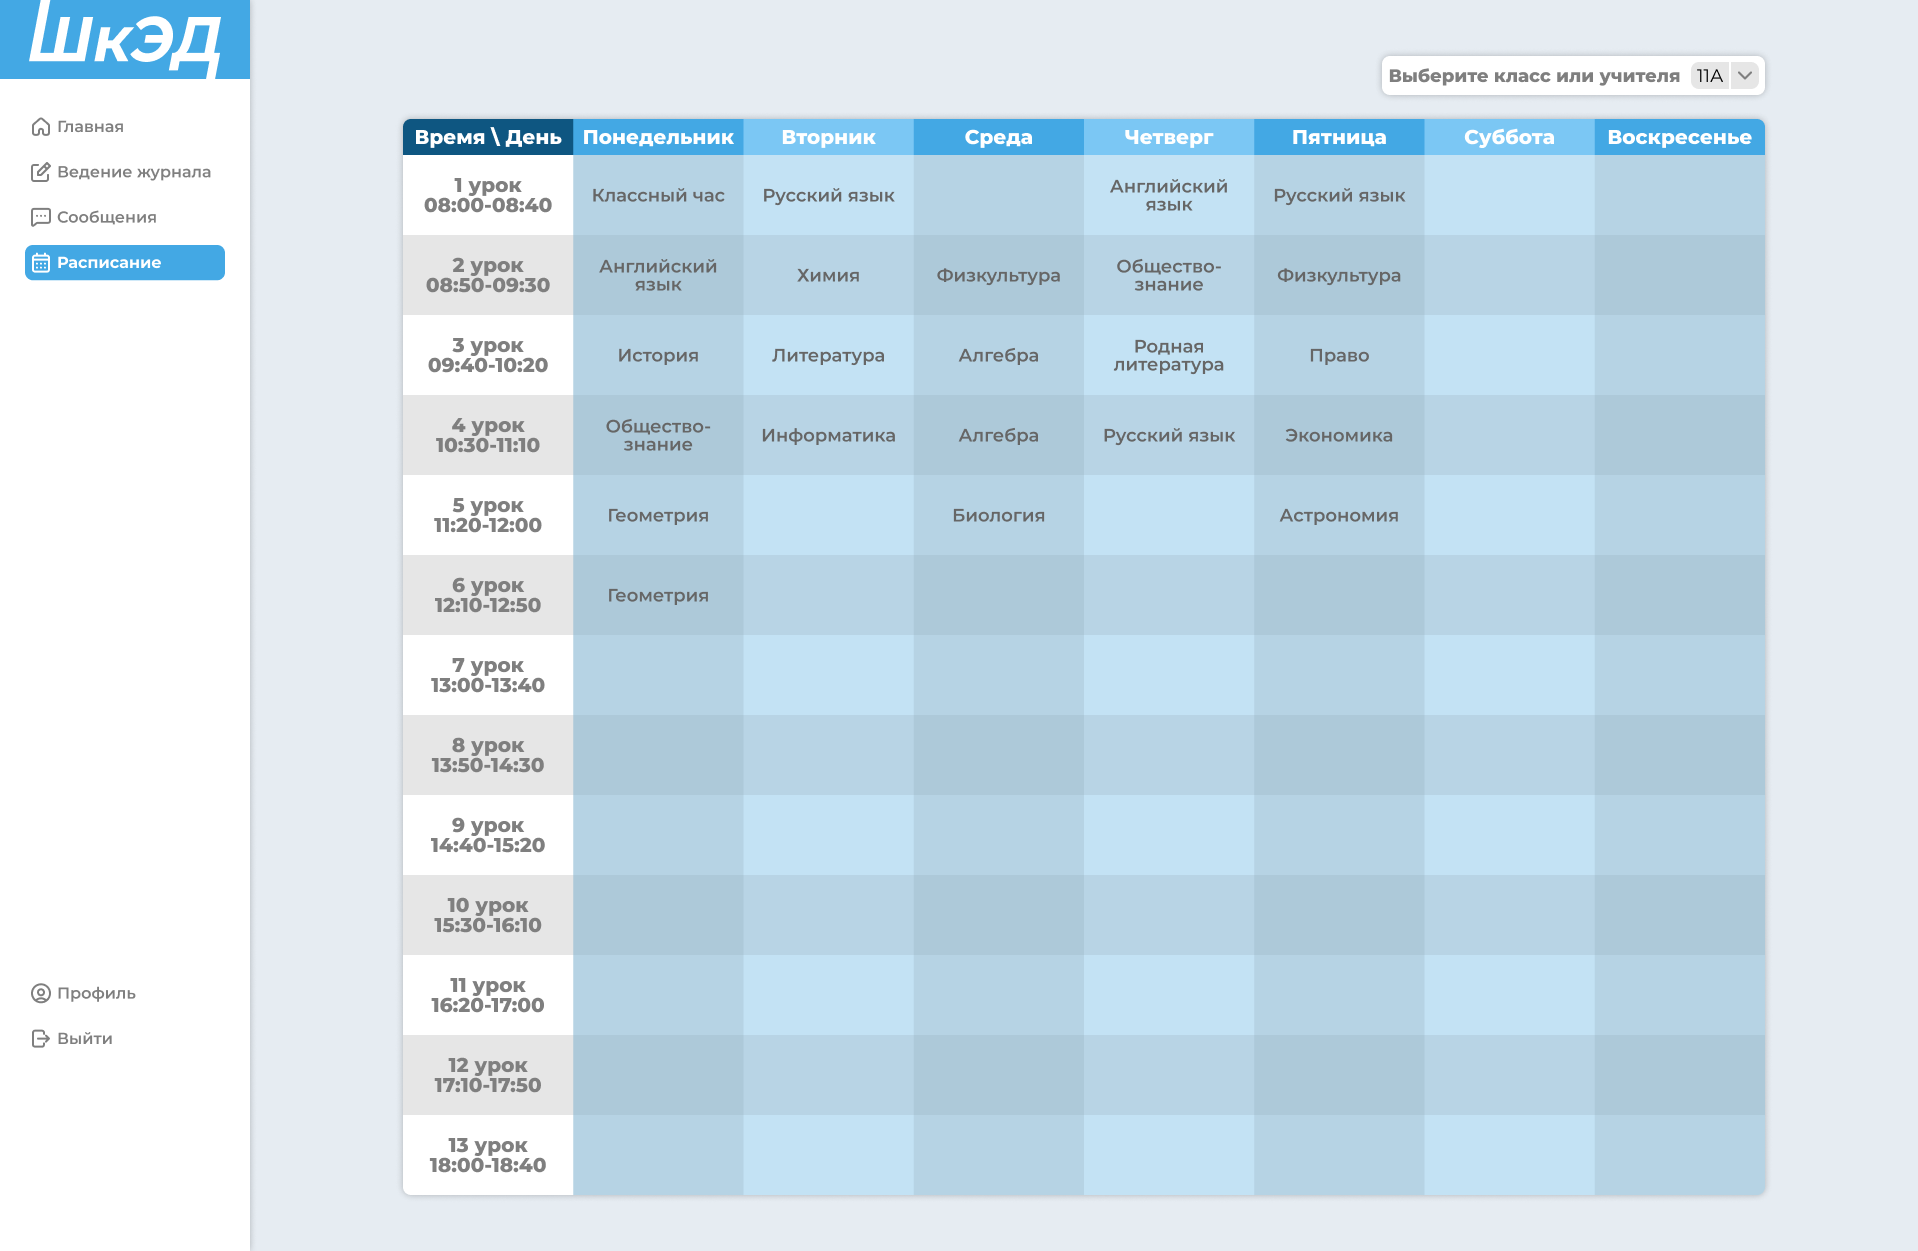
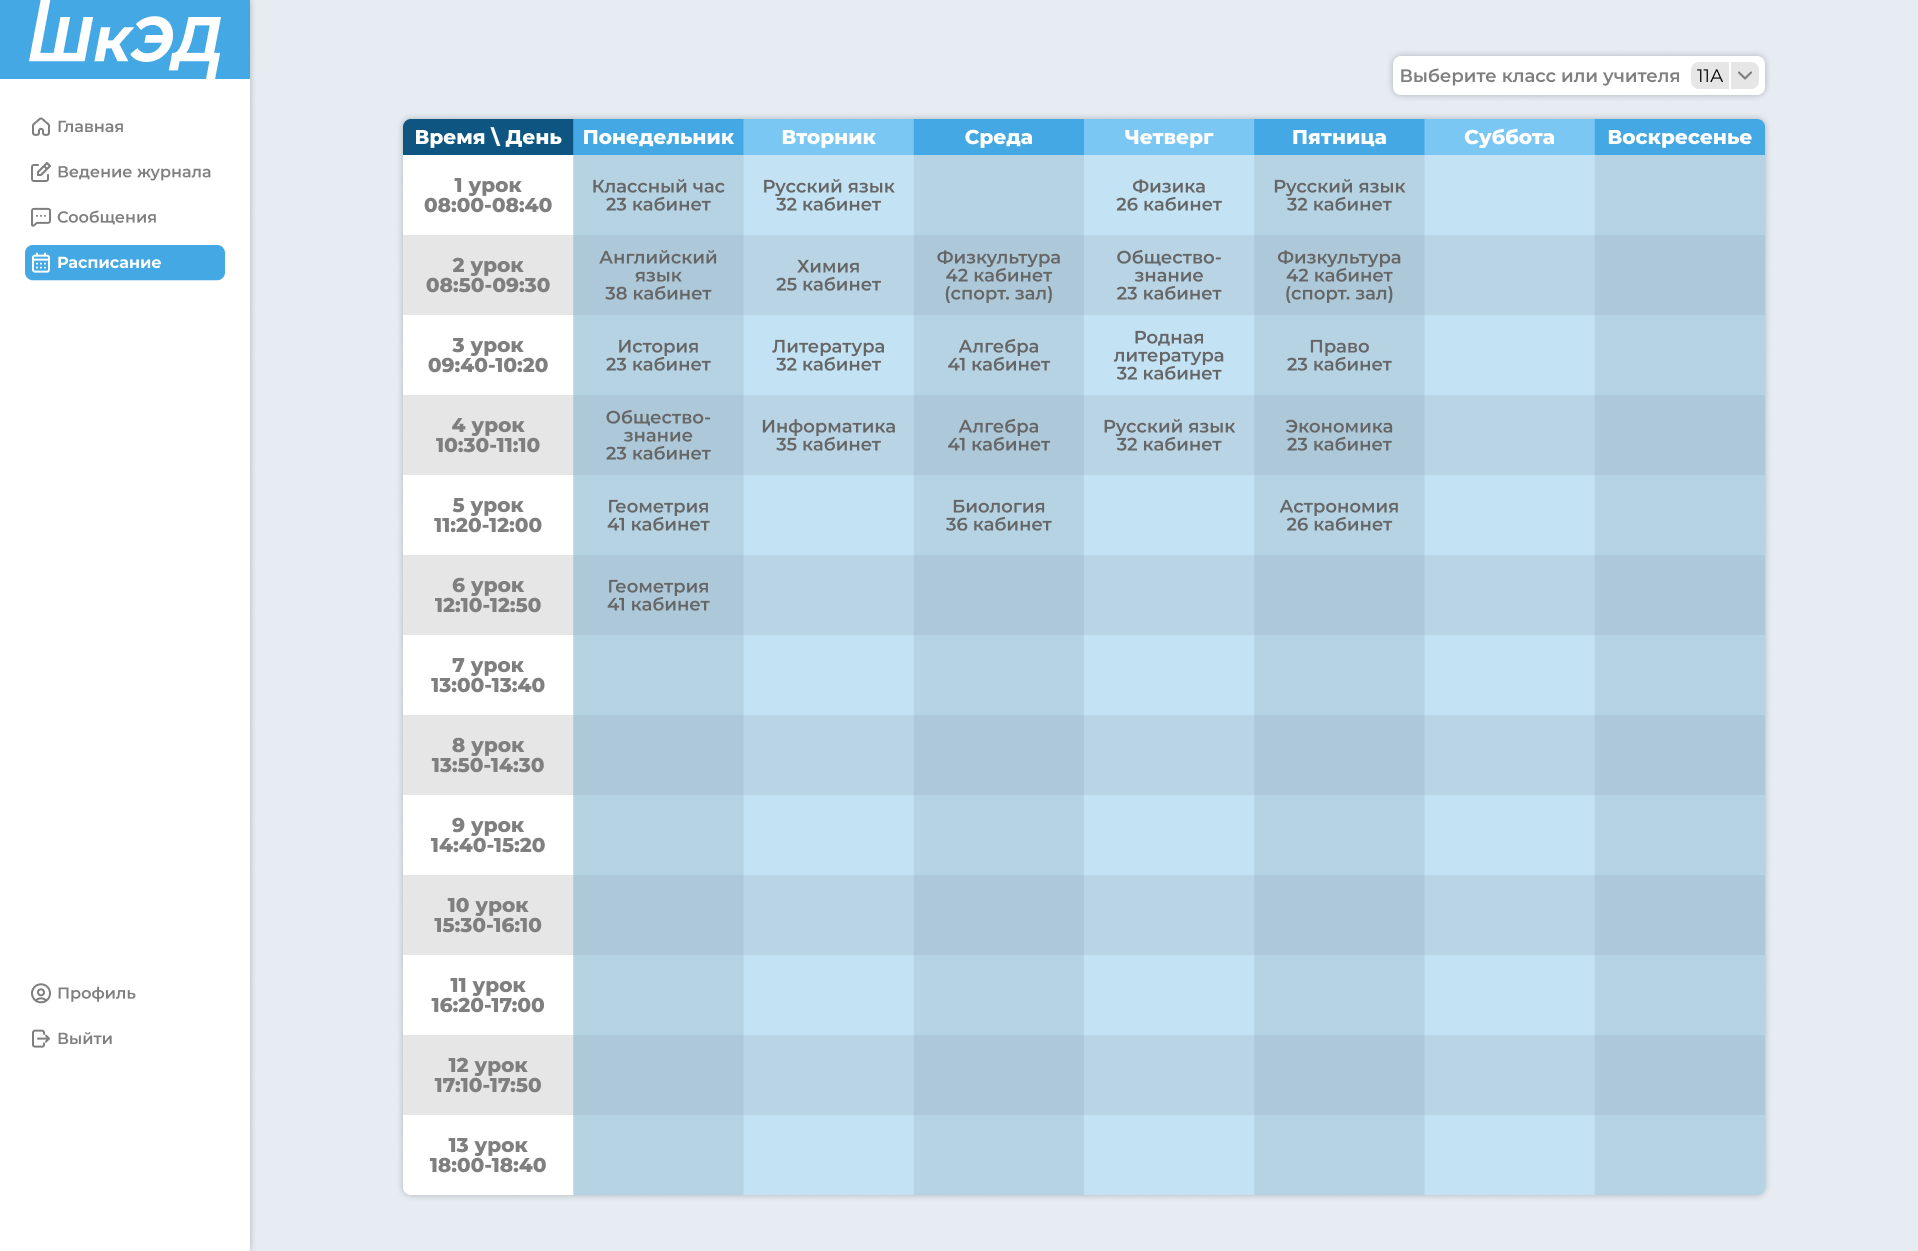
Скорректированы отступы на главной странице. Исправлен код анимации входа и выхода модальных окон, теперь они меняют размер. Скорректированы макеты страницы расписания (добавлены кабинеты, исправлена информация в некоторых ячейках). Добавлена иконка редактирования. Исправлено отображение иконки PDF 

diff --git a/front_code/home.html b/front_code/home.html
@@ -45,7 +45,7 @@
           </svg>
         </div>
         <nav class="left-panel-buttons">
-          <a href="#" class="nav-button active">
+          <a href="home.html" class="nav-button active">
             <svg
               class="nav-icon"
               width="18"
@@ -137,7 +137,7 @@
             </svg>
             <span>Профиль</span>
           </a>
-          <a href="#" class="nav-button">
+          <a href="index.html" class="nav-button">
             <svg
               class="nav-icon"
               width="18"
@@ -357,7 +357,7 @@
                   </p>
                   <p>На этом абзаце, пожалуй, можно и закончить.</p>
                 </div>
-                <a href="#" class="pdf-button">
+                <a href="files/info.pdf" class="pdf-button">
                   <svg
                     class="pdf-icon"
                     width="31"
@@ -366,18 +366,25 @@
                     fill="none"
                     xmlns="http://www.w3.org/2000/svg"
                   >
-                   
+                    <path
+                      d="M1.14131e-06 30.8506V7.65039C1.14131e-06 6.5509 -0.00102111 5.6508 0.0585949 4.9209C0.119399 4.17655 0.249535 3.49964 0.572267 2.86621C1.07559 1.87836 1.87837 1.0756 2.86621 0.572267C3.49964 0.249534 4.17655 0.119397 4.9209 0.0585949C5.6508 -0.00102224 6.55092 1.12745e-06 7.65039 1.12745e-06H16.5996C16.8428 1.1166e-06 17.0631 0.000158243 17.2607 0.00195425C17.8396 0.00722326 18.3251 0.026852 18.8193 0.145509C19.3559 0.274352 19.8681 0.487112 20.3369 0.774415C20.8957 1.11698 21.3598 1.59217 22.0088 2.24121L28.2598 8.49219C28.9106 9.14303 29.3822 9.6044 29.7246 10.1631C30.0118 10.6318 30.2246 11.1439 30.3535 11.6807C30.4692 12.1624 30.491 12.6357 30.4971 13.1973C30.4978 13.2148 30.5 13.2323 30.5 13.25C30.5 13.2611 30.4983 13.2722 30.498 13.2832C30.4995 13.4697 30.5 13.6757 30.5 13.9014V30.8574C30.5 31.9545 30.501 32.8526 30.4414 33.5811C30.3806 34.3242 30.2501 35 29.9277 35.6328C29.4241 36.6213 28.619 37.4247 27.6318 37.9277C26.999 38.2502 26.3233 38.3806 25.5801 38.4414C24.8515 38.501 23.9527 38.5 22.8555 38.5H7.64356C6.54636 38.5 5.64784 38.501 4.91895 38.4414C4.17549 38.3806 3.49921 38.2503 2.86621 37.9277C1.8777 37.424 1.07522 36.6199 0.572267 35.6328C0.249681 34.9995 0.119403 34.3232 0.0585949 33.5791C-0.00102307 32.8496 1.02137e-06 31.95 1.14131e-06 30.8506ZM2.5 30.8506C2.5 31.9909 2.50145 32.771 2.55078 33.375C2.59894 33.9644 2.68658 34.2758 2.79981 34.498C3.06381 35.0162 3.48425 35.4379 4.00098 35.7012C4.22276 35.8142 4.53418 35.9021 5.12305 35.9502C5.72645 35.9995 6.50545 36 7.64356 36H22.8555C23.9939 36 24.773 35.9995 25.376 35.9502C25.9643 35.9021 26.2751 35.8142 26.4971 35.7012C27.0152 35.4372 27.4369 35.0148 27.7002 34.498C27.8132 34.2762 27.9011 33.9659 27.9492 33.3779C27.9985 32.7749 28 31.9958 28 30.8574V14.5H23.6436C22.5464 14.5 21.6478 14.501 20.9189 14.4414C20.1755 14.3807 19.4992 14.2502 18.8662 13.9277C17.8774 13.4239 17.075 12.6195 16.5723 11.6328C16.2496 10.9996 16.1194 10.3231 16.0586 9.5791C15.999 8.84956 16 7.94908 16 6.84961V2.5H7.65039C6.50969 2.5 5.72854 2.50141 5.12402 2.55078C4.53434 2.59898 4.22307 2.68664 4.00098 2.79981C3.48362 3.06344 3.06344 3.48361 2.79981 4.00098C2.68661 4.22314 2.59897 4.53498 2.55078 5.125C2.50144 5.72947 2.5 6.50994 2.5 7.65039V30.8506ZM18.5 6.84961C18.5 7.99035 18.5004 8.77092 18.5498 9.375C18.598 9.96442 18.6865 10.2757 18.7998 10.498C19.064 11.0164 19.4848 11.4381 20.001 11.7012C20.2227 11.8141 20.5335 11.9021 21.1221 11.9502C21.7256 11.9995 22.505 12 23.6436 12H27.8428C27.7782 11.8157 27.6956 11.6375 27.5928 11.4697C27.4405 11.2212 27.2247 10.9922 26.4922 10.2598L20.2412 4.00879C19.5077 3.27529 19.2783 3.05727 19.0303 2.90527C18.8625 2.80247 18.6843 2.71981 18.5 2.65527V6.84961Z"
+                      fill="#808080"
+                    />
                     <path
                       d="M8.47283 31.29C8.35549 31.29 8.25416 31.2473 8.16883 31.162C8.08883 31.0767 8.04883 30.9727 8.04883 30.85C8.04883 30.722 8.08883 30.618 8.16883 30.538C8.25416 30.458 8.35549 30.418 8.47283 30.418C8.59016 30.418 8.68883 30.458 8.76883 30.538C8.85416 30.618 8.89683 30.722 8.89683 30.85C8.89683 30.9727 8.85416 31.0767 8.76883 31.162C8.68883 31.2473 8.59016 31.29 8.47283 31.29Z"
+                      fill="#808080"
                     />
                     <path
                       d="M12.2801 31.29C11.9175 31.29 11.5895 31.2073 11.2961 31.042C11.0028 30.8713 10.7681 30.6287 10.5921 30.314C10.4215 29.994 10.3361 29.6047 10.3361 29.146C10.3361 28.6873 10.4215 28.3007 10.5921 27.986C10.7628 27.666 10.9948 27.4233 11.2881 27.258C11.5815 27.0927 11.9121 27.01 12.2801 27.01C12.6801 27.01 13.0375 27.1007 13.3521 27.282C13.6721 27.458 13.9228 27.7087 14.1041 28.034C14.2855 28.354 14.3761 28.7247 14.3761 29.146C14.3761 29.5727 14.2855 29.946 14.1041 30.266C13.9228 30.586 13.6721 30.8367 13.3521 31.018C13.0375 31.1993 12.6801 31.29 12.2801 31.29ZM10.1121 32.802V27.05H10.6561V28.314L10.6001 29.154L10.6801 30.002V32.802H10.1121ZM12.2401 30.786C12.5388 30.786 12.8055 30.7193 13.0401 30.586C13.2748 30.4473 13.4615 30.2553 13.6001 30.01C13.7388 29.7593 13.8081 29.4713 13.8081 29.146C13.8081 28.8207 13.7388 28.5353 13.6001 28.29C13.4615 28.0447 13.2748 27.8527 13.0401 27.714C12.8055 27.5753 12.5388 27.506 12.2401 27.506C11.9415 27.506 11.6721 27.5753 11.4321 27.714C11.1975 27.8527 11.0108 28.0447 10.8721 28.29C10.7388 28.5353 10.6721 28.8207 10.6721 29.146C10.6721 29.4713 10.7388 29.7593 10.8721 30.01C11.0108 30.2553 11.1975 30.4473 11.4321 30.586C11.6721 30.7193 11.9415 30.786 12.2401 30.786Z"
+                      fill="#808080"
                     />
                     <path
                       d="M17.206 31.29C16.806 31.29 16.446 31.1993 16.126 31.018C15.8113 30.8367 15.5633 30.586 15.382 30.266C15.2007 29.9407 15.11 29.5673 15.11 29.146C15.11 28.7193 15.2007 28.346 15.382 28.026C15.5633 27.706 15.8113 27.458 16.126 27.282C16.446 27.1007 16.806 27.01 17.206 27.01C17.574 27.01 17.902 27.0927 18.19 27.258C18.4833 27.4233 18.7154 27.666 18.886 27.986C19.062 28.3007 19.15 28.6873 19.15 29.146C19.15 29.5993 19.0647 29.986 18.894 30.306C18.7233 30.626 18.4913 30.8713 18.198 31.042C17.91 31.2073 17.5793 31.29 17.206 31.29ZM17.246 30.786C17.5447 30.786 17.8114 30.7193 18.046 30.586C18.286 30.4473 18.4727 30.2553 18.606 30.01C18.7447 29.7593 18.814 29.4713 18.814 29.146C18.814 28.8153 18.7447 28.5273 18.606 28.282C18.4727 28.0367 18.286 27.8473 18.046 27.714C17.8114 27.5753 17.5447 27.506 17.246 27.506C16.9527 27.506 16.6887 27.5753 16.454 27.714C16.2193 27.8473 16.0327 28.0367 15.894 28.282C15.7553 28.5273 15.686 28.8153 15.686 29.146C15.686 29.4713 15.7553 29.7593 15.894 30.01C16.0327 30.2553 16.2193 30.4473 16.454 30.586C16.6887 30.7193 16.9527 30.786 17.246 30.786ZM18.83 31.25V29.986L18.886 29.138L18.806 28.29V25.314H19.374V31.25H18.83Z"
+                      fill="#808080"
                     />
                     <path
                       d="M21.0519 31.25V26.522C21.0519 26.1487 21.1612 25.8473 21.3799 25.618C21.5986 25.3887 21.9132 25.274 22.3239 25.274C22.4839 25.274 22.6386 25.2953 22.7879 25.338C22.9372 25.3807 23.0626 25.4473 23.1639 25.538L22.9719 25.962C22.8919 25.8927 22.7986 25.842 22.6919 25.81C22.5852 25.7727 22.4706 25.754 22.3479 25.754C22.1079 25.754 21.9239 25.8207 21.7959 25.954C21.6679 26.0873 21.6039 26.2847 21.6039 26.546V27.186L21.6199 27.45V31.25H21.0519ZM20.2999 27.522V27.05H22.8999V27.522H20.2999Z"
+                      fill="#808080"
                     />
                   </svg>
                 </a>

diff --git a/front_code/css/home.css b/front_code/css/home.css
@@ -3,6 +3,8 @@
     margin-left: 250px;
     /* Сдвигаем контент вправо на ширину панели */
     padding: 56px;
+    padding-left: 153px;
+    padding-right: 153px;
     width: calc(100% - 250px);
     display: flex;
     flex-direction: column;
@@ -275,32 +277,30 @@
 }
 
 /* 3. Контентная часть (белое окно) */
-
-
 /* Стиль для подзаголовка (обычного текста) в модальном окне */
 .modal-content p {
     font-size: 18px;
     font-weight: 600;
     line-height: 1;
+    margin: 0 50px 24px 50px;
+}
+
+/* Изначально окно чуть меньше стандартного значения */
+.modal-content {
+    transform: scale(0.7);
+    transition: transform 0.3s ease;
 }
 
 /* При появлении окна оно немного увеличивается */
 .modal-overlay.active .modal-content {
     transform: scale(1);
+    transition: transform 0.3s ease;
 }
 
 .modal-content h2 {
     font-size: 22px;
     font-weight: 700;
-    /* Отступ снизу */
-}
-
-.modal-content p {
-    font-size: 18px;
-    font-weight: 600;
-    line-height: 1;
-    margin: 0 0 24px 0;
-    /* Отступ снизу */
+    margin: 0 50px 0 50px;
 }
 
 /* 
@@ -313,7 +313,6 @@
 }
 
 
-
 /*
  * =================================
  * Стили для формы предложения
@@ -323,9 +322,13 @@
 /* Дополнительный класс для кастомизации отступов в модальном окне с формой */
 .modal-content.proposal-form {
     padding: 4px;
-    /* Увеличим отступы, чтобы было больше воздуха */
     width: 600px;
-    /* Сделаем окно чуть шире для формы */
+}
+
+/* Блоки с темой и текстом письма имеют отступы */
+.form-group {
+    padding-left: 18px;
+    padding-right: 18px;
 }
 
 /* Стили для самой формы внутри модального окна */
